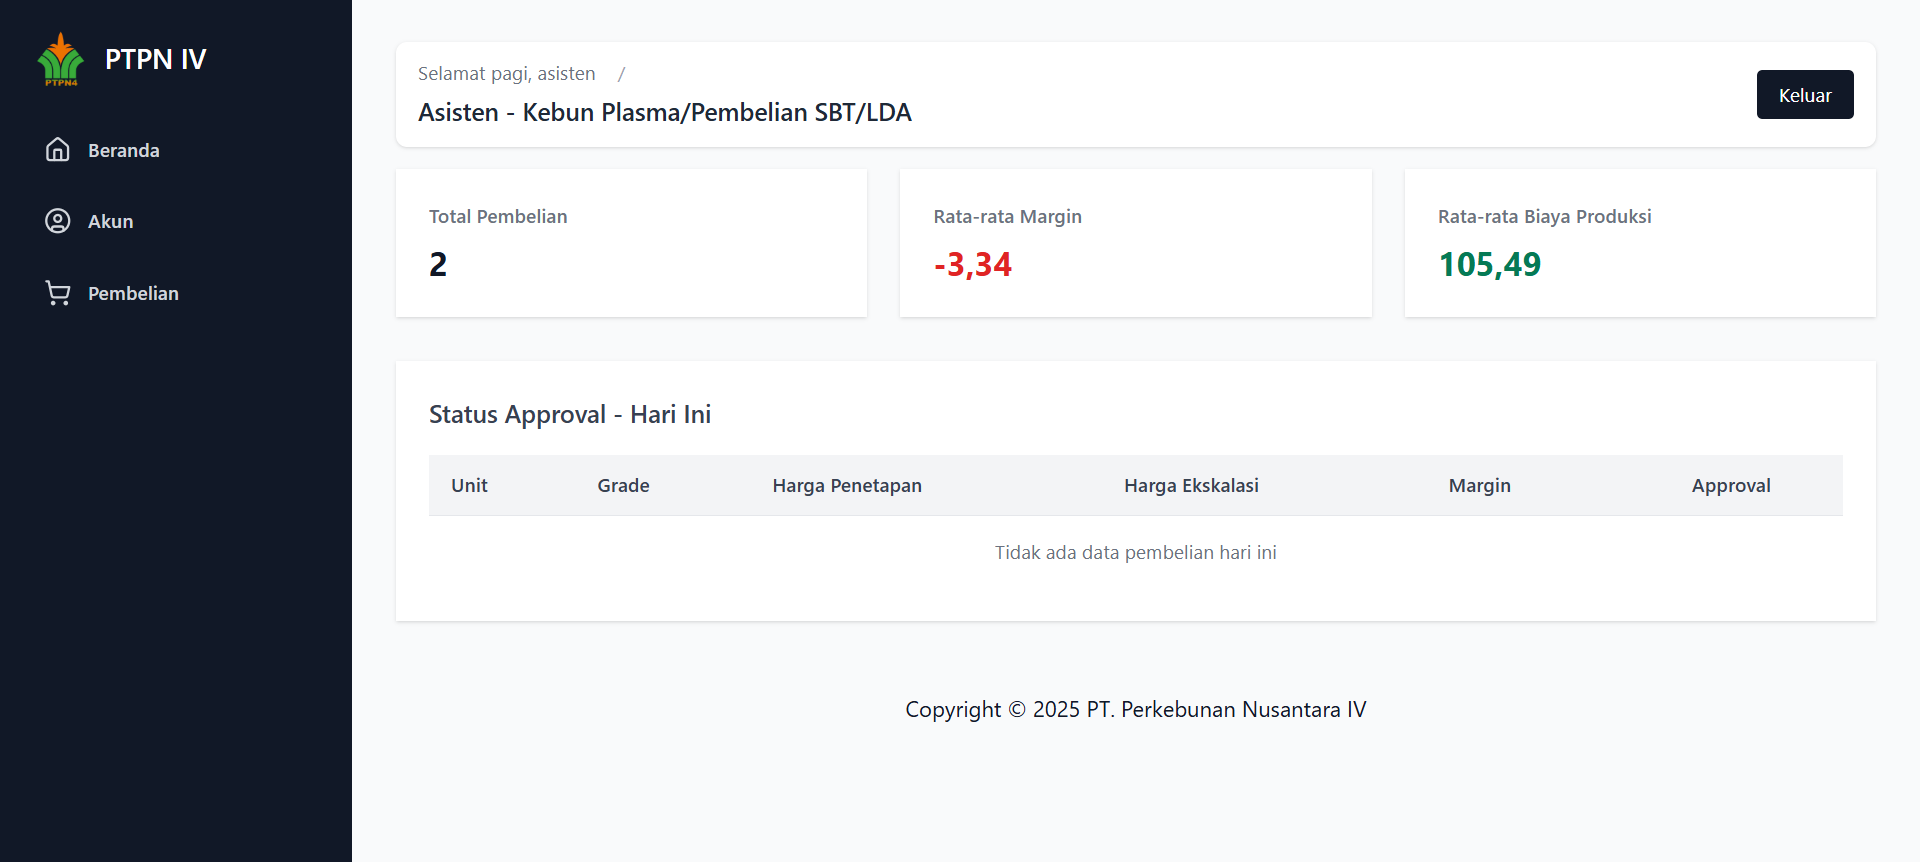
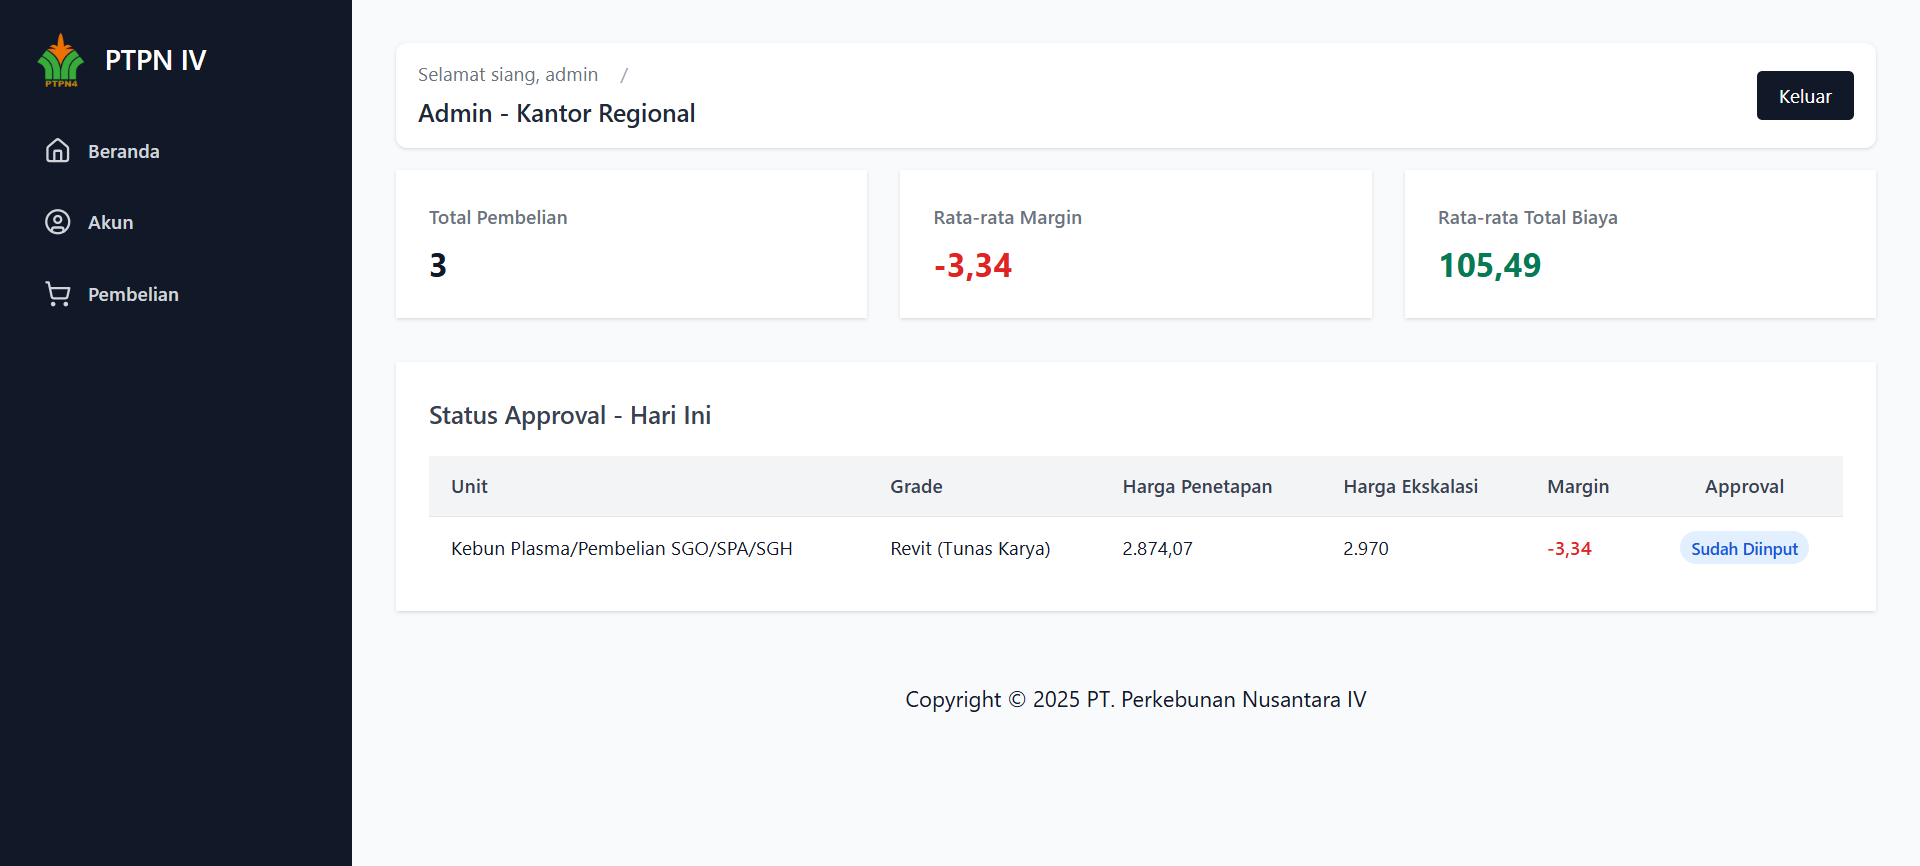
update

diff --git a/resources/views/dashboard.blade.php b/resources/views/dashboard.blade.php
@@ -68,7 +68,7 @@
                     </p>
                 </div>
                 <div class="bg-white rounded-2xl shadow p-6">
-                    <h2 class="text-sm font-medium text-gray-500">Rata-rata Biaya Produksi</h2>
+                    <h2 class="text-sm font-medium text-gray-500">Rata-rata Total Biaya</h2>
                     <p class="mt-2 text-2xl font-bold text-green-600">
                         {{ number_format($rataRataBiaya, 2, ',', '.') }}
                     </p>
